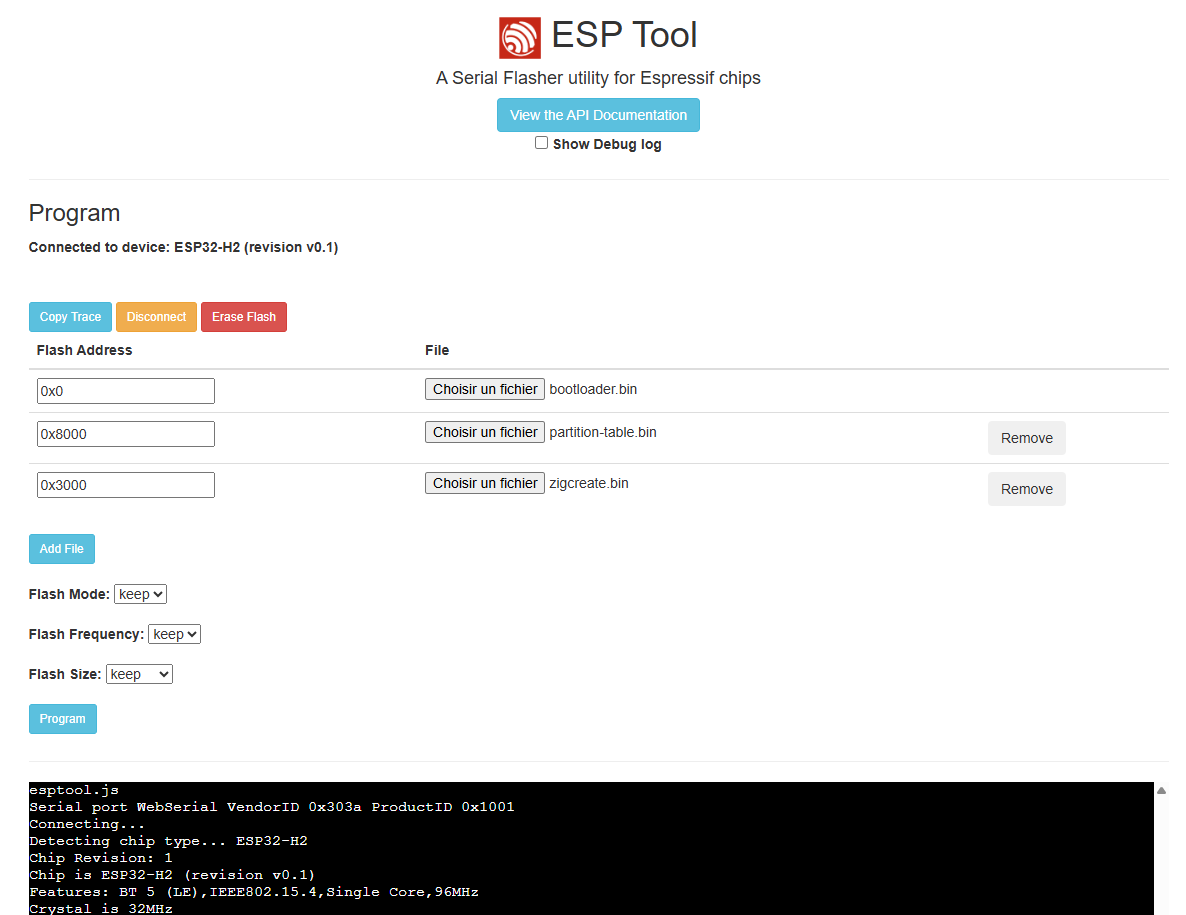
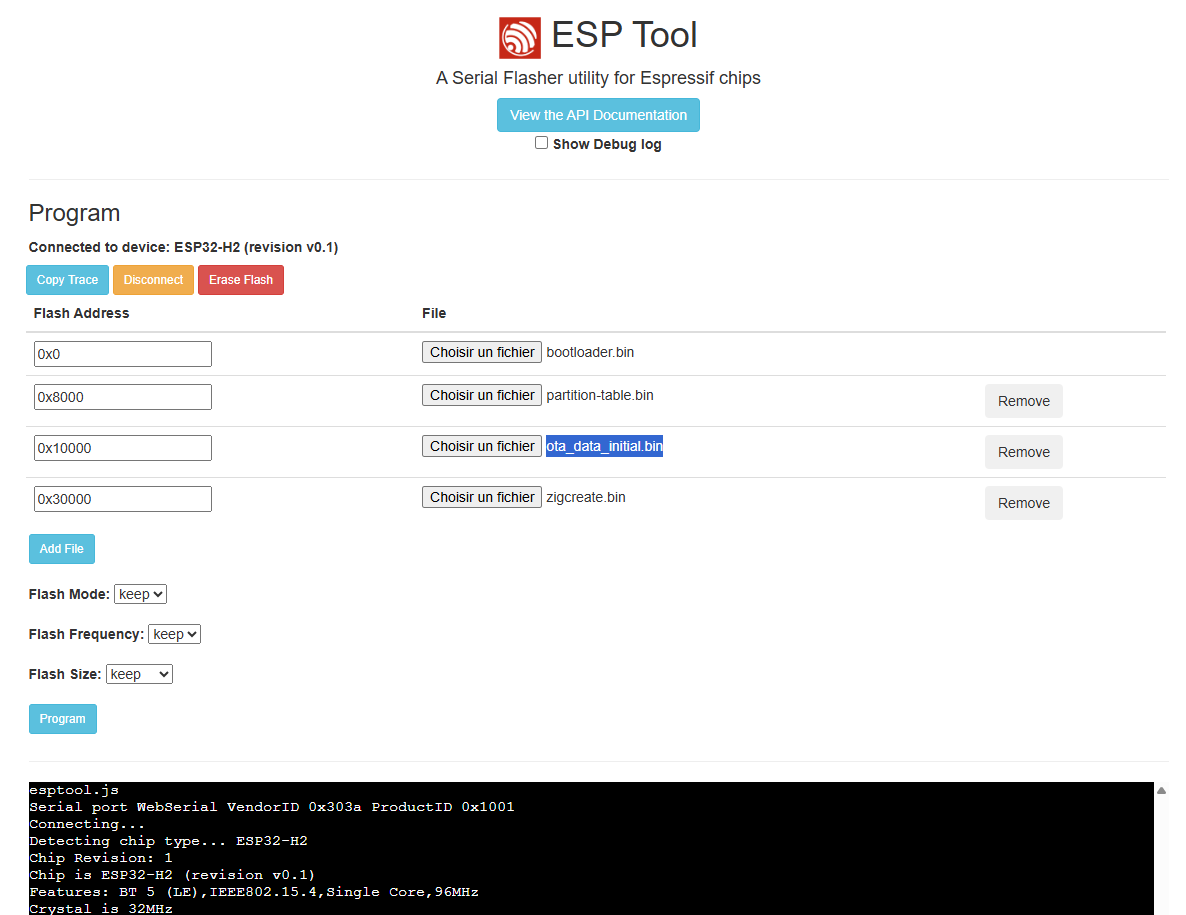
update

Changed region(s): [[0.0, 0.2754, 0.9671, 0.5508]]

diff --git a/flash/FLASH.md b/flash/FLASH.md
@@ -62,6 +62,7 @@ Dans la section **Flash Address**, renseignez les trois fichiers avec leurs adre
 |---|---|
 | `bootloader.bin` | `0x0` |
 | `partition-table.bin` | `0x8000` |
+| `ota_data_initial.bin` | `0x10000` |
 | `zigcreate.bin` | `0x30000` |
 
 Pour ajouter un fichier supplémentaire, cliquez sur **Add File**.
